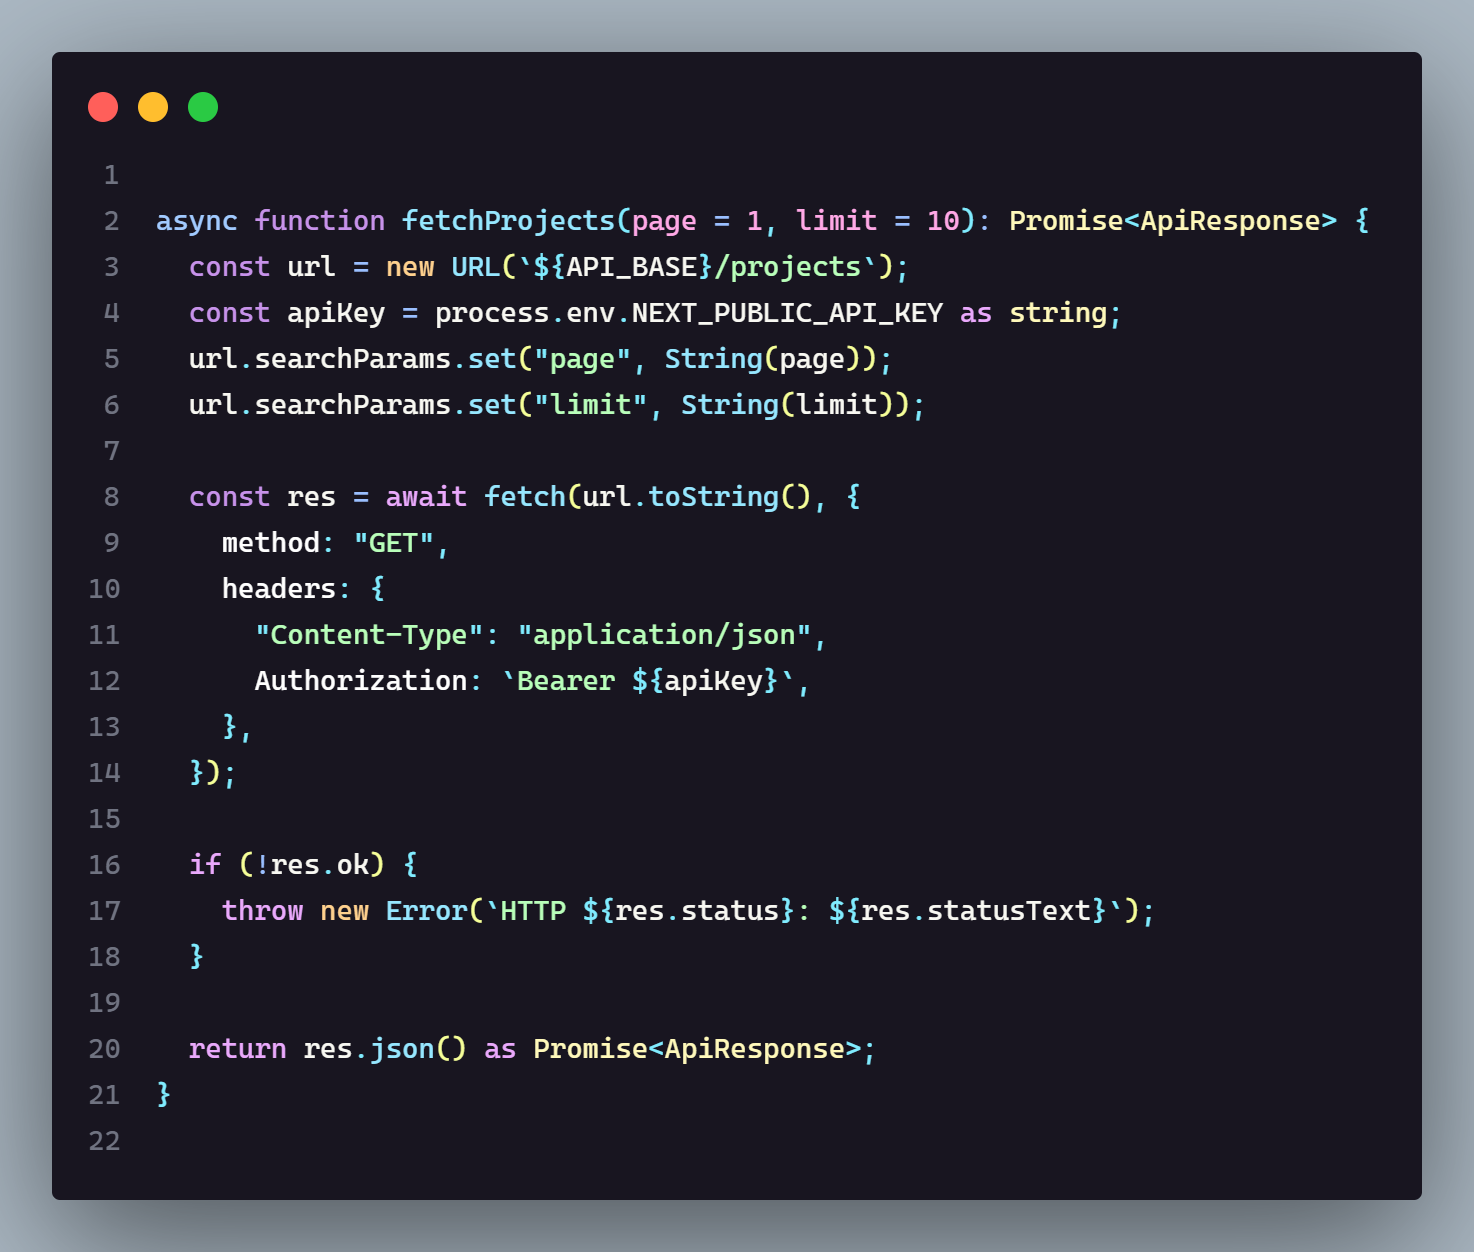
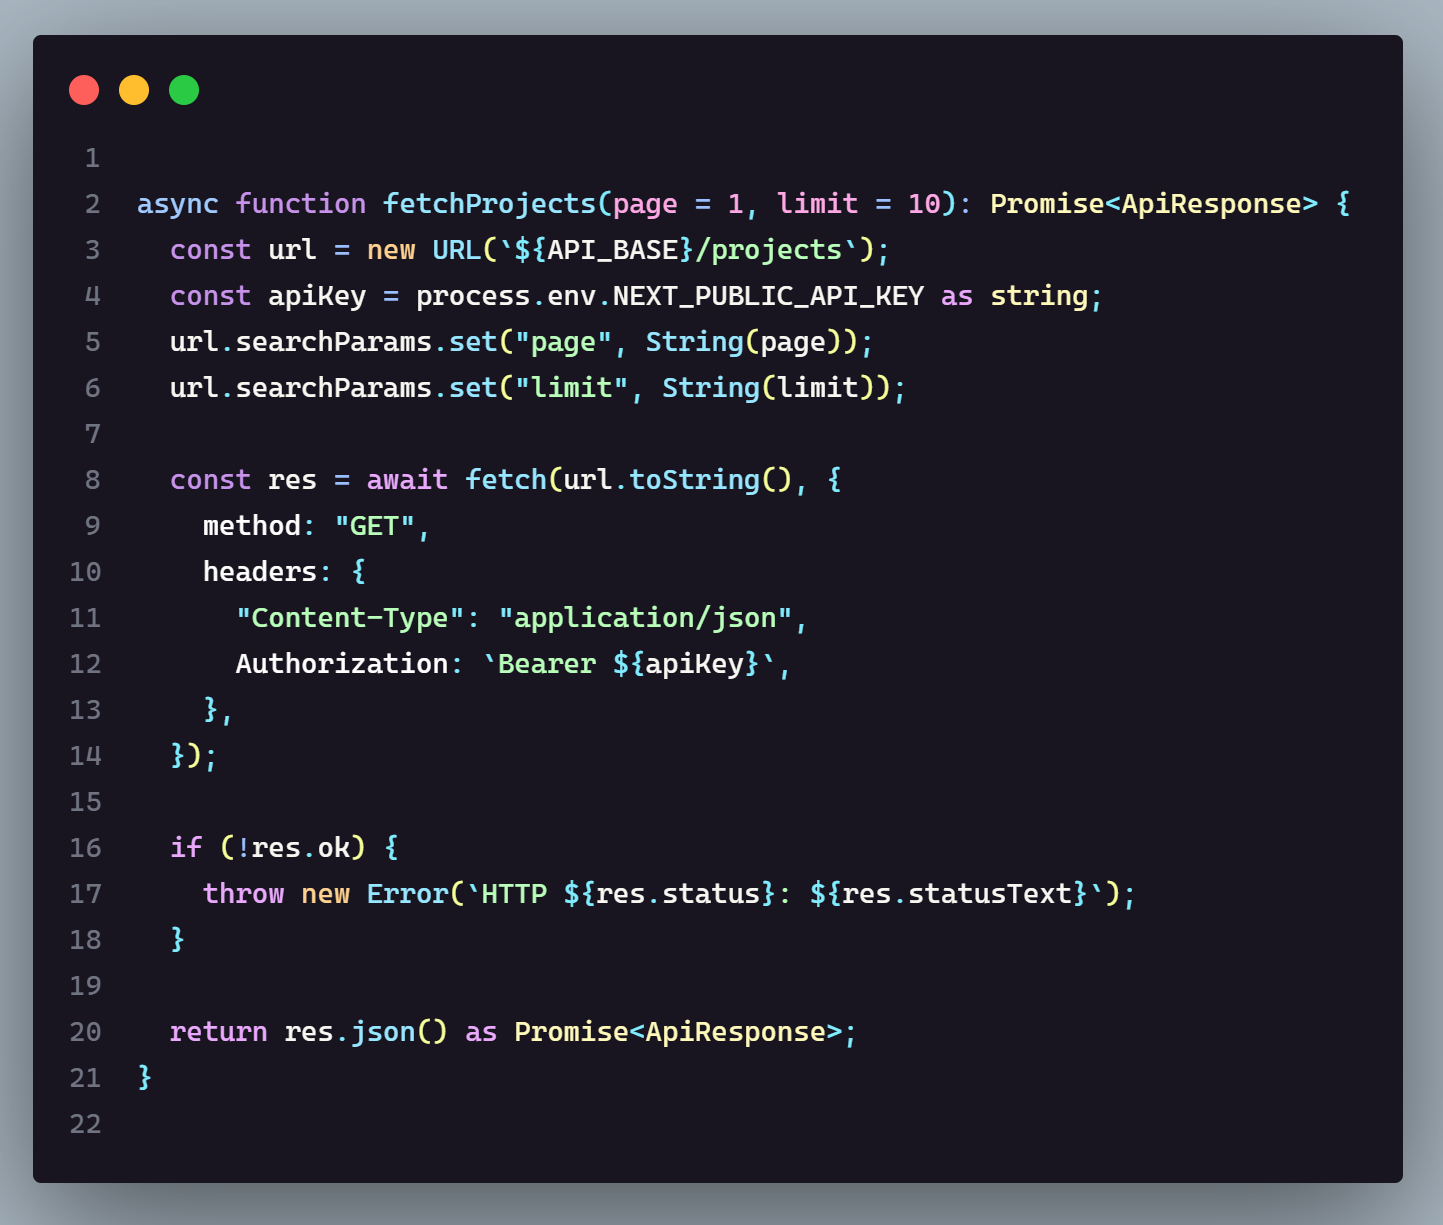
docs(readme): constrain screenshot width

diff --git a/README.md b/README.md
@@ -8,9 +8,13 @@ As terminal agents and AI handle more of the heavy lifting, the IDE is becoming 
 
 ## Screenshots
 
-![Funky Dark — TSX](public/images/tsx-code.png)
+<p align="center">
+  <img src="public/images/tsx-code.png" alt="Funky Dark — TSX" width="80%">
+</p>
 
-![Funky Darker — Functions](public/images/functions-darker.png)
+<p align="center">
+  <img src="public/images/functions-darker.png" alt="Funky Darker — Functions" width="80%">
+</p>
 
 ---
 
